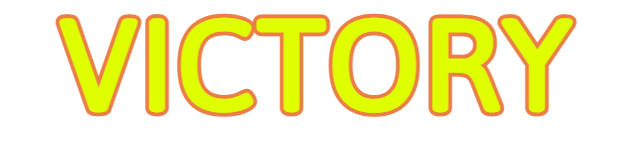
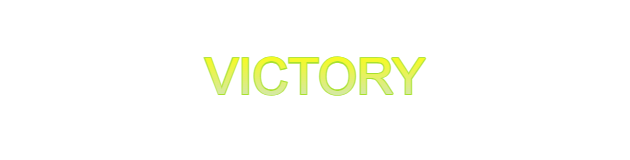
updated difficulty and victory buttons.

diff --git a/README.md b/README.md
@@ -71,7 +71,8 @@
 <summary><h2>Alien-Onslaught Changelog</h2></summary>
 
 ### Version 3.3:
-* Updated images for Save Game and Paused.
+* Updated images for buttons: Load Game, Victory, Difficulty.
+* Updated images for buttons: Save Game and Paused.
 * Added sound effects for Mute & Unmute.
 * Users are able to mute/unmute sound effects in the game using the F2 key.
 * Updated & Improved UI / Controls on main menu.
